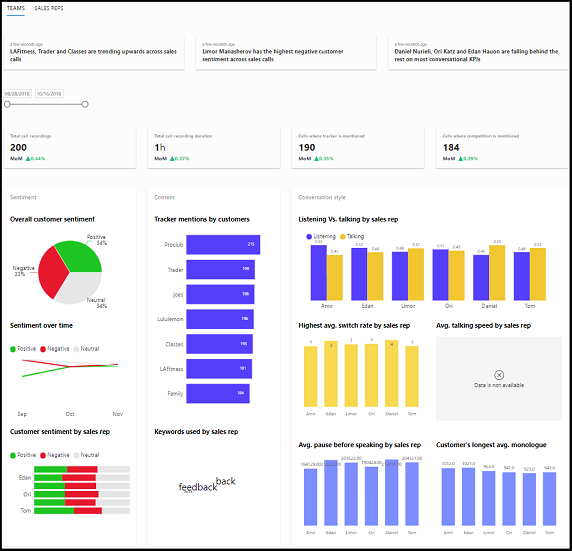
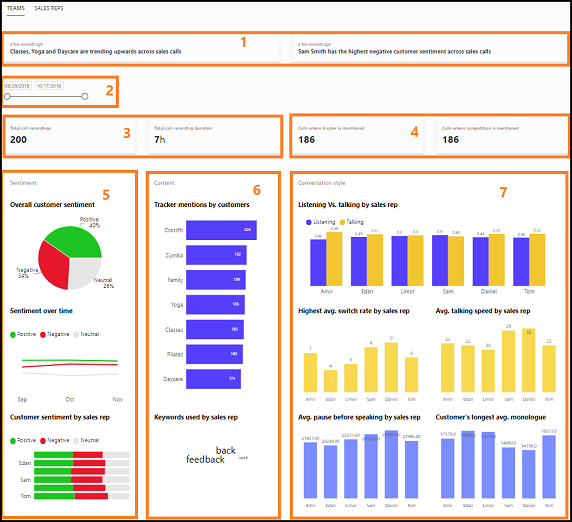
updated call intelligence screens

diff --git a/ai-docs/sales/call-intelligence.md b/ai-docs/sales/call-intelligence.md
@@ -48,13 +48,14 @@ When you open the **Teams** page, you can see the pulse of the team through the 
 
 |KPI/Insights|Description|
 |------------|-----------|
-|**Date filter**|Provides a timeline for which you want to view the data of your team.|
-|**Total calls recorded and Total call recording duration**|Specifies the total calls that were recorded during the specified time and the total duration of the recorded calls.|
-|**Calls where tracker is mentioned and Calls where competitor is mentioned**|Specifies the number of calls in which the defined keywords are mentioned and number of calls where the defined competitors are mentioned.|
-|**Sentiment**|• **Overall customer sentiment:** Specifies the customer sentiment in percentage whether it’s positive, negative, or neutral.<br>•	**Sentiment over time:** Displays how the three customer sentiments (positive, negative, and neutral) are spanning across in the specified time frame.<br> •	**Customer sentiment generated by sales rep:** Specifies how each of your sales reps contributed towards generating the overall customer sentiment. Also, view which sales rep has the highest and lowest contributions.|
-|**Content**|• **Trackers mentioned by customers:** Displays the defined keywords that customers use most during the conversations with sales reps. <br>• **Competition mentioned by customers:** Displays the defined competitors names that sales reps use most during the conversations with customers.|
-|**Conversation style**|• **Listening and talking ratio:** Specifies the average listen and talk ratio of sales reps in conversations with customer.<br> •	**Highest average switch rate:** Displays the average switches between sales rep and customer in a conversation and is a sign of engagement during conversations.<br>•	**Average talking speed:** Displays the average number of words used per minute by sales reps.<br>•	**Average pause before speaking:** Displays how many milliseconds the sales reps has paused before responding to customer queries and this is a signal of patience for the sales reps.<br>•	**Average longest monologue by customer:** Displays the length of speech without break by customer with sales reps in seconds and this is a signal of sales reps asking good questions and better understanding customer needs.|
-|**Insights**|Displays what’s happening in your team and latest trends such as sales reps who are under performing, sales reps who are scoring high in customer satisfaction and keywords that are trending.|
+|**1. Insights**|Displays what’s happening in your team and latest trends such as sales reps who are under performing, sales reps who are scoring high in customer satisfaction and keywords that are trending.|
+|**2. Date filter**|Provides a timeline for which you want to view the data of your team.|
+|**3. Total calls recorded and Total call recording duration**|Specifies the total calls that were recorded during the specified time and the total duration of the recorded calls.|
+|**4. Calls where tracker is mentioned and Calls where competitor is mentioned**|Specifies the number of calls in which the defined keywords are mentioned and number of calls where the defined competitors are mentioned.|
+|**5. Sentiment**|• **Overall customer sentiment:** Specifies the customer sentiment in percentage whether it’s positive, negative, or neutral.<br>•	**Sentiment over time:** Displays how the three customer sentiments (positive, negative, and neutral) are spanning across in the specified time frame.<br> •	**Customer sentiment generated by sales rep:** Specifies how each of your sales reps contributed towards generating the overall customer sentiment. Also, view which sales rep has the highest and lowest contributions.|
+|**6. Content**|• **Trackers mentioned by customers:** Displays the defined keywords that customers use most during the conversations with sales reps. <br>• **Competition mentioned by customers:** Displays the defined competitors names that sales reps use most during the conversations with customers.|
+|**7. Conversation style**|• **Listening and talking ratio:** Specifies the average listen and talk ratio of sales reps in conversations with customer.<br> •	**Highest average switch rate:** Displays the average switches between sales rep and customer in a conversation and is a sign of engagement during conversations.<br>•	**Average talking speed:** Displays the average number of words used per minute by sales reps.<br>•	**Average pause before speaking:** Displays how many milliseconds the sales reps has paused before responding to customer queries and this is a signal of patience for the sales reps.<br>•	**Average longest monologue by customer:** Displays the length of speech without break by customer with sales reps in seconds and this is a signal of sales reps asking good questions and better understanding customer needs.|
+
 
 Open the **Sales rep** view to drill down into each individual sales rep and assess the performance and identify areas where the sales rep requires coaching. Also, gets a quick peek into the customer sentiments, conversational KPIs across all the calls for the sales reps. You can filter into a specific call that has negative customer sentiment and view the transcript of the call. You can look at the keywords and sentiments across the timeline of the call and go to a moment and look at the call transcript. You can post comments on how the sales rep could handle the situation better and share these comments via email.<br>
 Select the drop down corresponding to the name of the sales rep to view other reps.
@@ -64,15 +65,15 @@ Select the drop down corresponding to the name of the sales rep to view other re
 
 |KPI/Insights|Description|
 |------------|-----------|
-|**Basic information**|Displays the basic information of the sales rep such as Average talking speed, Switch per conversations, Average pause, and Longest customer monologue.|
-|**Calls**|Displays the list of calls handled by the sales rep. Select the call to display the transcript and timeline. |
-|**Customer sentiment level**|Displays the customer sentiments (positive, negative, and neutral) for each call that the sales rep handled. |
-|**Date filter**|Provides a timeline for which you want to view the data of your team.|
-|**Insights**|Displays what’s happening the sales rep and latest trends such as customer sentiments and keywords that are trending.|
-|**Most used keywords**|Displays the defined keywords that customers used most during the conversations with the sales rep.|
-|**Sentiment over time**|Displays how the three customer sentiments (positive, negative, and neutral) are behaving and spanning across in the specified time frame for the sales rep.|
-|**Talk to listen ratio**|Displays the average talk and listen ration of the sales rep during calls with customer.|
-|**Transcript**|•	Provides written record of the call that you have selected.<br>•	Displays the sentiments and keywords across the call.<br>•	You can pause the call and select **Comment** to provide necessary inputs to the sales rep.|
+|**1. Basic information**|Displays the basic information of the sales rep such as Average talking speed, Switch per conversations, Average pause, and Longest customer monologue.<br>**Date filter:** Provides a timeline for which you want to view the data of your team.|
+|**2. Insights**|Displays what’s happening the sales rep and latest trends such as customer sentiments and keywords that are trending.|
+|**3. Customer sentiment level**|Displays the customer sentiments (positive, negative, and neutral) for each call that the sales rep handled. |
+|**4. Talk to listen ratio**|Displays the average talk and listen ration of the sales rep during calls with customer.|
+|**5. Sentiment over time**|Displays how the three customer sentiments (positive, negative, and neutral) are behaving and spanning across in the specified time frame for the sales rep.|
+|**6. Call details**|Displays the sentiments and keywords across the call.|
+|**7. Most used keywords**|Displays the defined keywords that customers used most during the conversations with the sales rep.|
+|**8. Calls**|Displays the list of calls handled by the sales rep. Select the call to display the transcript and timeline. |
+|**9. Transcript**|•	Provides written record of the call that you have selected.<br>• select **Add comment** to provide necessary inputs to the sales rep at the selected timeline.|
 
 ### See also
 
